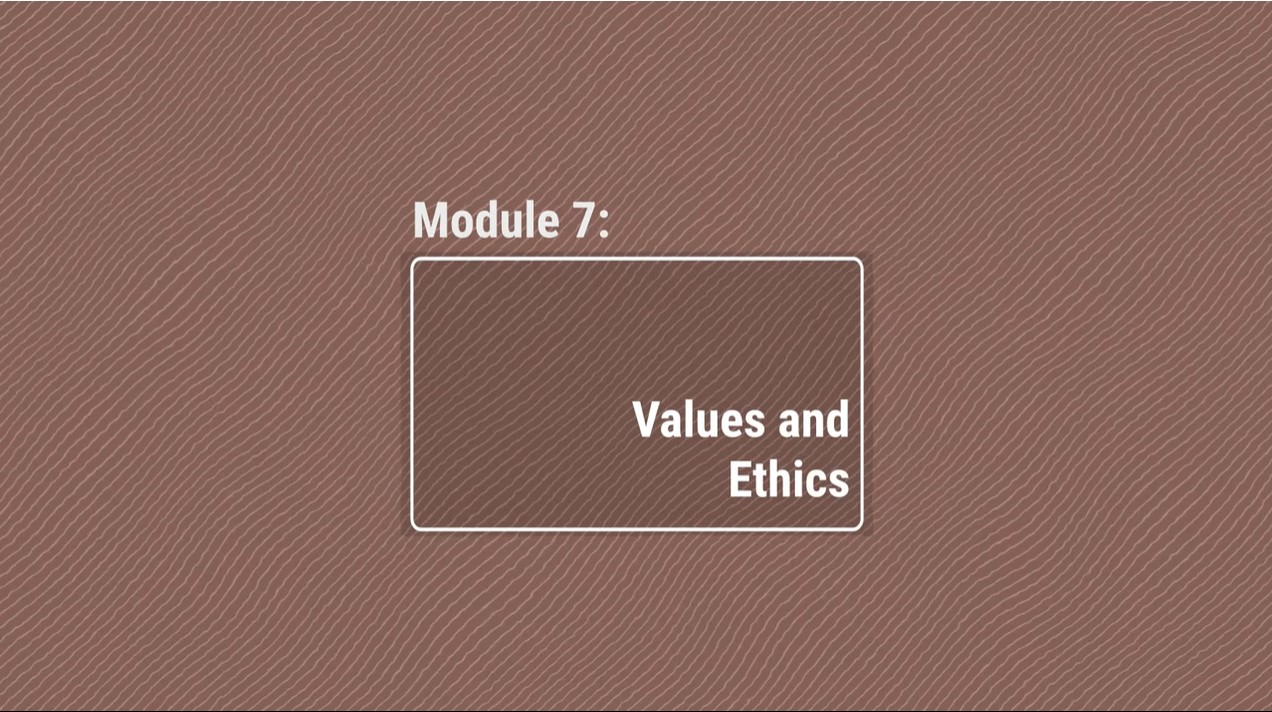
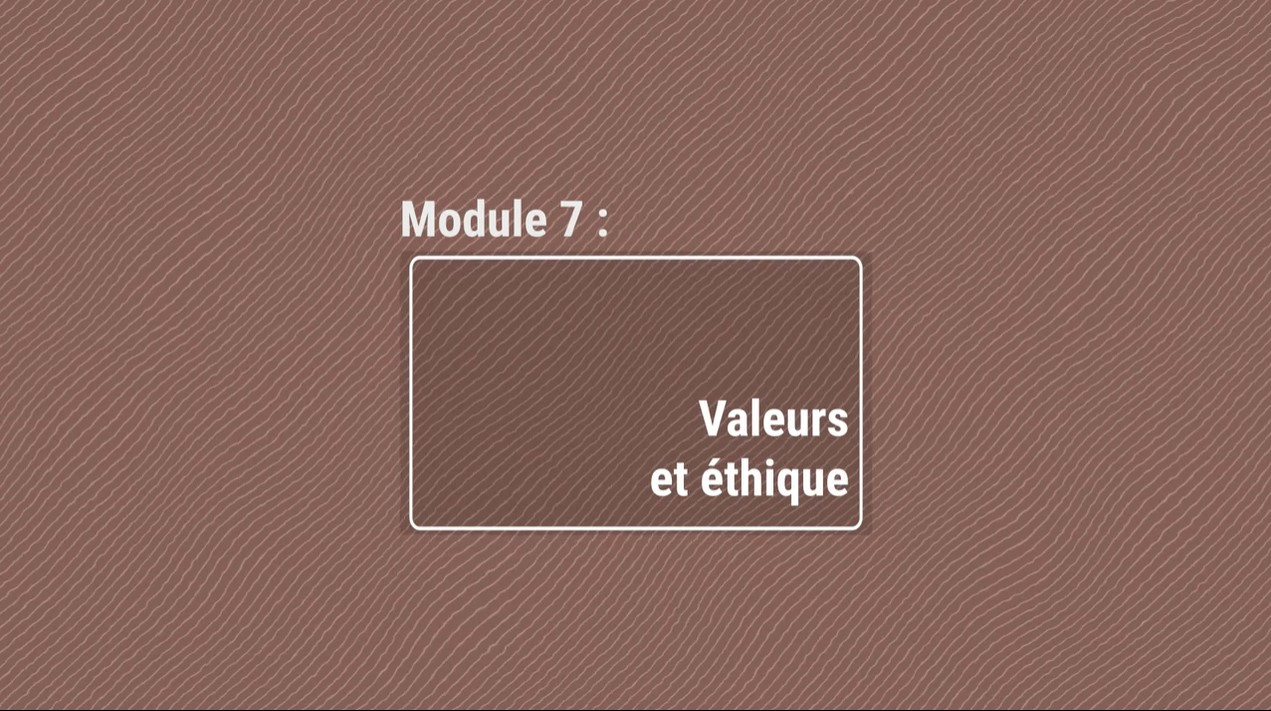
French video mod 7 integrated

diff --git a/pages/valuesPart2.vue b/pages/valuesPart2.vue
@@ -4,7 +4,7 @@
     <section>
       <b-row>
         <b-col>
-          <videoPlayer ref="vp" enVideoFile="https://video.csps-efpc.gc.ca/p/101/serveFlavor/entryId/0_4uigcges/flavorId/0_1pjmc3r5/name/a.mp4" frVideoFile="https://video.csps-efpc.gc.ca/p/101/serveFlavor/entryId/0_sryvnufu/flavorId/0_r4qxx5uw/name/a.mp4" chapters chapterFile="ReportPart2.vtt" ccFile="ValuesPart2_captions.vtt" posterFile="m7.jpg" :restartAt="parseInt(thatPoint)" toResume="setReportPart1" :modalArray="modalArray" @timeupdate="updatePercent($event)" />
+          <videoPlayer ref="vp" enVideoFile="https://video.csps-efpc.gc.ca/p/101/serveFlavor/entryId/0_4uigcges/flavorId/0_1pjmc3r5/name/a.mp4" frVideoFile="https://video.csps-efpc.gc.ca/p/101/serveFlavor/entryId/0_f8yfrsyq/flavorId/0_m6obd69s/name/a.mp4" chapters chapterFile="ReportPart2.vtt" ccFile="ValuesPart2_captions.vtt" posterFile="m7.jpg" :restartAt="parseInt(thatPoint)" toResume="setReportPart1" :modalArray="modalArray" @timeupdate="updatePercent($event)" />
         </b-col>
       </b-row>
       <b-container>
